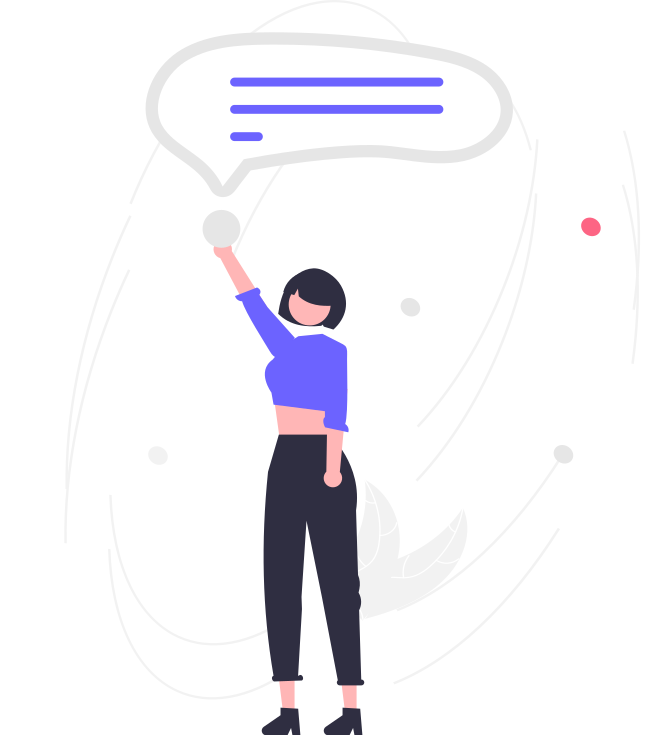
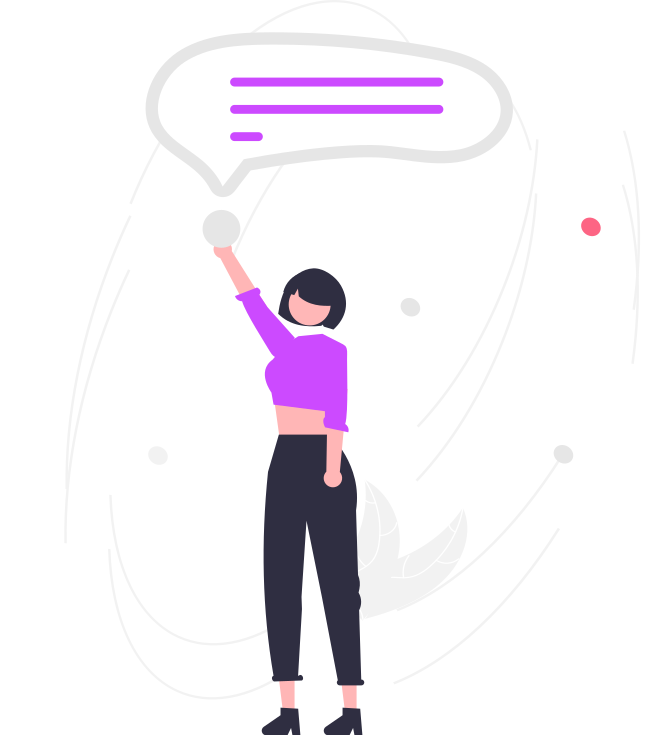
ui: Color things purple

Changed region(s): [[0.3675, 0.374, 0.5513, 0.5921], [0.3369, 0.0935, 0.6738, 0.2182]]

diff --git a/lib/ui/pages/conversation/conversation.dart b/lib/ui/pages/conversation/conversation.dart
@@ -210,7 +210,7 @@ class ConversationPage extends StatelessWidget {
                             icon: viewModel.showSendButton ? Icons.send : Icons.add,
                             visible: true,
                             curve: Curves.bounceInOut,
-                            backgroundColor: BUBBLE_COLOR_SENT,
+                            backgroundColor: PRIMARY_COLOR,
                             // TODO: Theme dependent?
                             foregroundColor: Colors.white,
                             openCloseDial: this._isSpeedDialOpen,
@@ -227,7 +227,7 @@ class ConversationPage extends StatelessWidget {
                                 onTap: () {
                                   showNotImplementedDialog("sending files", context);
                                 },
-                                backgroundColor: BUBBLE_COLOR_SENT,
+                                backgroundColor: PRIMARY_COLOR,
                                 // TODO: Theme dependent?
                                 foregroundColor: Colors.white,
                                 label: "Add Image"
@@ -237,7 +237,7 @@ class ConversationPage extends StatelessWidget {
                                 onTap: () {
                                   showNotImplementedDialog("sending files", context);
                                 },
-                                backgroundColor: BUBBLE_COLOR_SENT,
+                                backgroundColor: PRIMARY_COLOR,
                                 // TODO: Theme dependent?
                                 foregroundColor: Colors.white,
                                 label: "Take photo"
@@ -247,7 +247,7 @@ class ConversationPage extends StatelessWidget {
                                 onTap: () {
                                   showNotImplementedDialog("sending files", context);
                                 },
-                                backgroundColor: BUBBLE_COLOR_SENT,
+                                backgroundColor: PRIMARY_COLOR,
                                 // TODO: Theme dependent?
                                 foregroundColor: Colors.white,
                                 label: "Add file"

diff --git a/lib/main.dart b/lib/main.dart
@@ -11,6 +11,7 @@ import 'ui/pages/postregister.dart';
 import 'ui/pages/settings/settings.dart';
 import 'ui/pages/settings/licenses.dart';
 import 'ui/pages/settings/about.dart';
+import 'ui/constants.dart';
 import 'repositories/roster.dart';
 import 'repositories/roster.dart';
 
@@ -24,7 +25,8 @@ import 'package:get_it/get_it.dart';
 // TODO: Replace all single quotes with double quotes
 // TODO: Replace all Column(children: [ Padding(), Padding, ...]) with a
 //       Padding(padding: ..., child: Column(children: [ ... ]))
-
+// TODO: Theme the switches
+// TODO: Find a better way to do this
 void main() {
   GetIt.I.registerSingleton<RosterRepository>(RosterRepository());
 
@@ -45,7 +47,22 @@ class MyApp extends StatelessWidget {
           primarySwatch: Colors.blue,
         ),
         darkTheme: ThemeData(
-          brightness: Brightness.dark
+          brightness: Brightness.dark,
+          elevatedButtonTheme: ElevatedButtonThemeData(
+            style: ElevatedButton.styleFrom(
+              primary: PRIMARY_COLOR,
+              onPrimary: Colors.white
+            )
+          ),
+          textButtonTheme: TextButtonThemeData(
+            style: TextButton.styleFrom(
+              primary: PRIMARY_COLOR
+            )
+          ),
+          // NOTE: Mainly for the SettingsSection
+          colorScheme: ColorScheme.dark(
+            secondary: PRIMARY_COLOR
+          )
         ),
         //themeMode: ThemeMode.system,
         themeMode: ThemeMode.dark,

diff --git a/lib/ui/pages/conversations.dart b/lib/ui/pages/conversations.dart
@@ -101,14 +101,14 @@ class ConversationsPage extends StatelessWidget {
         icon: Icons.chat,
         visible: true,
         curve: Curves.bounceInOut,
-        backgroundColor: BUBBLE_COLOR_SENT,
+        backgroundColor: PRIMARY_COLOR,
         // TODO: Theme dependent?
         foregroundColor: Colors.white,
         children: [
           SpeedDialChild(
             child: Icon(Icons.group),
             onTap: () => showNotImplementedDialog("groupchat", buildContext),
-            backgroundColor: BUBBLE_COLOR_SENT,
+            backgroundColor: PRIMARY_COLOR,
             // TODO: Theme dependent?
             foregroundColor: Colors.white,
             label: "Join groupchat"
@@ -116,7 +116,7 @@ class ConversationsPage extends StatelessWidget {
           SpeedDialChild(
             child: Icon(Icons.person_add),
             onTap: () => Navigator.pushNamed(buildContext, "/new_conversation"),
-            backgroundColor: BUBBLE_COLOR_SENT,
+            backgroundColor: PRIMARY_COLOR,
             // TODO: Theme dependent?
             foregroundColor: Colors.white,
             label: "New chat"

diff --git a/lib/ui/pages/login/login.dart b/lib/ui/pages/login/login.dart
@@ -50,7 +50,10 @@ class LoginPage extends StatelessWidget {
           children: [
             Visibility(
               visible: viewModel.doingWork,
-              child: LinearProgressIndicator(value: null)
+              child: LinearProgressIndicator(
+                value: null,
+                valueColor: AlwaysStoppedAnimation<Color>(PRIMARY_COLOR)
+              )
             ),
             Padding(
               padding: EdgeInsets.symmetric(horizontal: PADDING_VERY_LARGE).add(EdgeInsets.only(top: 8.0)),

diff --git a/lib/ui/pages/register/register.dart b/lib/ui/pages/register/register.dart
@@ -67,7 +67,10 @@ class RegistrationPage extends StatelessWidget {
           children: [
             Visibility(
               visible: viewModel.doingWork,
-              child: LinearProgressIndicator(value: null)
+              child: LinearProgressIndicator(
+                value: null,
+                valueColor: AlwaysStoppedAnimation<Color>(PRIMARY_COLOR)
+              )
             ),
             Padding(
               padding: EdgeInsets.symmetric(horizontal: PADDING_VERY_LARGE, vertical: 16.0),

diff --git a/lib/ui/constants.dart b/lib/ui/constants.dart
@@ -3,7 +3,10 @@ import "dart:ui";
 const Radius RADIUS_LARGE = Radius.circular(10);
 const Radius RADIUS_SMALL = Radius.circular(4);
 
-const Color BUBBLE_COLOR_SENT = Color.fromRGBO(162, 68, 173, 1.0);
+const int PRIMARY_COLOR_HEX_RGBO = 0xffcf4aff;
+const Color PRIMARY_COLOR = Color(PRIMARY_COLOR_HEX_RGBO);
+
+const Color BUBBLE_COLOR_SENT = PRIMARY_COLOR;
 const Color BUBBLE_COLOR_RECEIVED = Color.fromRGBO(44, 62, 80, 1.0);
 
 const double PADDING_VERY_LARGE = 64.0;
